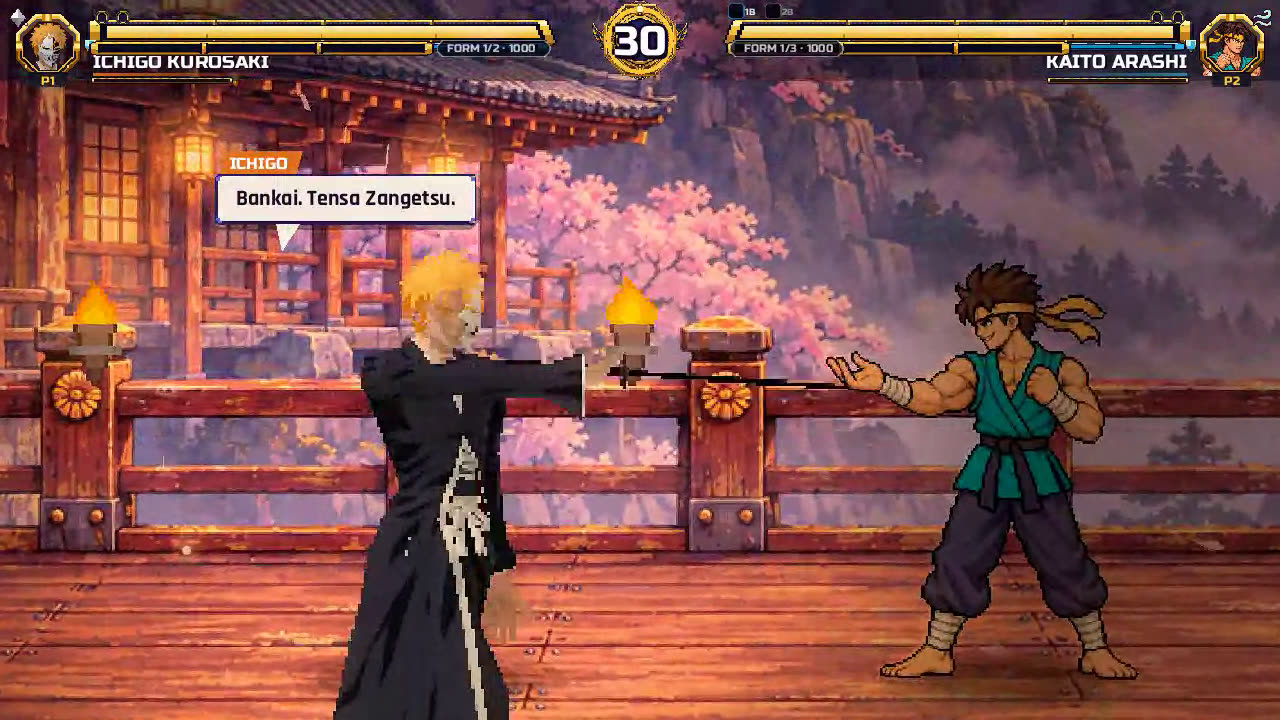
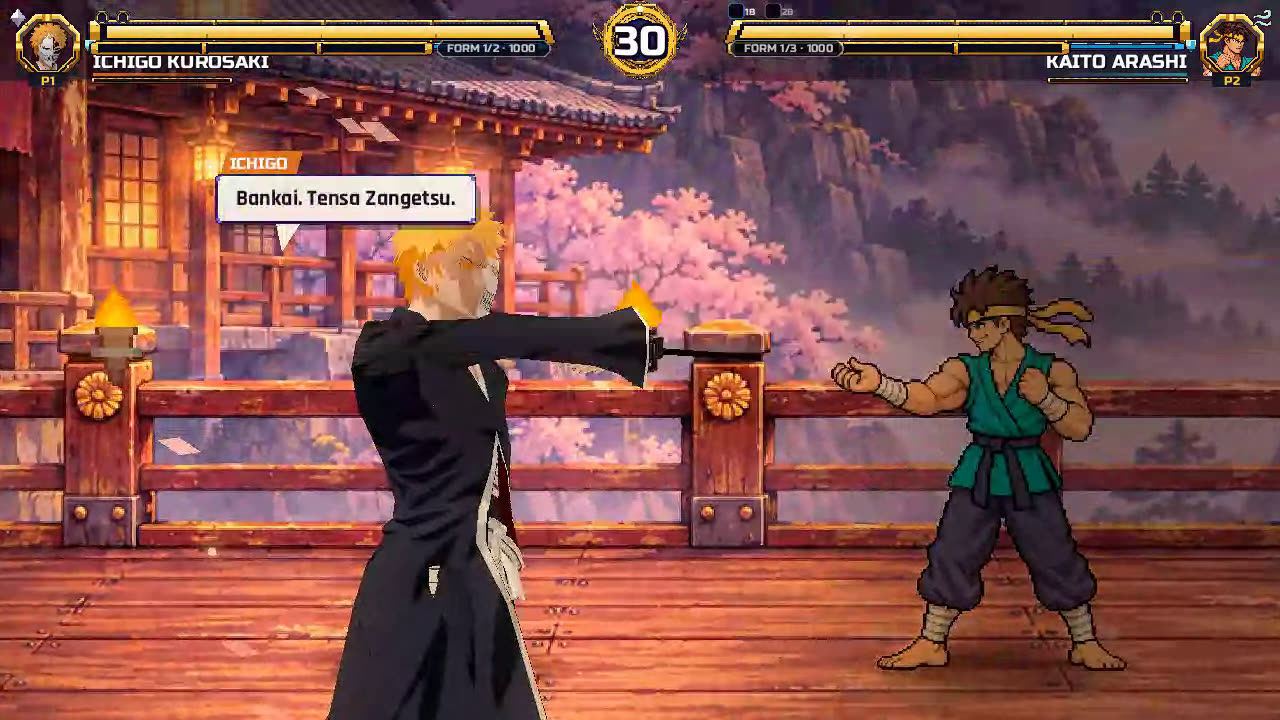
feat: up to 3x close-ups on 3D fighters with a sharp 1:1 window
Claude-Session: https://claude.ai/code/session_01Cn6JQLMANsaH27kiMiEnYX

diff --git a/src/model3d/canvas.rs b/src/model3d/canvas.rs
@@ -5,10 +5,13 @@ use std::collections::HashMap;
 use ume_model3d::{Facing, Raster};
 
 const EDGE: usize = 448;
+const CLOSE_EDGE: usize = 640;
+const CLOSE_SLOT: usize = 1000;
 const FEET: f32 = 0.84;
 const FILL: f32 = 0.5;
 
 struct Canvas {
+    edge: usize,
     raster: Raster,
     samples: usize,
     pixels: Vec<u8>,
@@ -23,6 +26,7 @@ pub(super) struct Placement {
     pub yaw: f32,
     pub pitch: f32,
     pub lens: f32,
+    pub aim: f32,
 }
 
 thread_local! {
@@ -51,16 +55,27 @@ impl Drawn {
 }
 
 pub(super) fn present(b: &mut Binding, key: (&str, bool, usize), at: Placement) -> Drawn {
-    let render_scale = at.screen_scale.min(EDGE as f32 * FILL / b.height);
+    let close = at.aim > 0.0;
+    let edge = if close { CLOSE_EDGE } else { EDGE };
+    let render_scale = if close {
+        at.screen_scale
+    } else {
+        at.screen_scale.min(EDGE as f32 * FILL / b.height)
+    };
     let mut camera = b.camera;
     camera.pixels_per_unit *= render_scale;
     camera.yaw_offset += at.yaw;
     camera.pitch = at.pitch;
     camera.lens = at.lens;
-    let origin = [EDGE as f32 / 2.0, EDGE as f32 * FEET];
+    let origin = if close {
+        [edge as f32 / 2.0, edge as f32 / 2.0 + at.aim * b.height * render_scale]
+    } else {
+        [edge as f32 / 2.0, edge as f32 * FEET]
+    };
     b.model
         .project(&b.posed, &camera, at.facing, origin, &mut b.triangles);
-    let drawn = CANVASES.with(|cache| {
+    let slot = key.2 + if close { CLOSE_SLOT } else { 0 };
+    CANVASES.with(|cache| {
         let mut cache = cache.borrow_mut();
         let samples = if crate::lite::scale() < 1.0 {
             1
@@ -68,15 +83,16 @@ pub(super) fn present(b: &mut Binding, key: (&str, bool, usize), at: Placement) 
             at.samples
         };
         let canvas = cache
-            .entry((key.0.to_string(), key.1, key.2))
+            .entry((key.0.to_string(), key.1, slot))
             .or_insert_with(|| Canvas {
-                raster: Raster::new(EDGE, EDGE, samples),
+                edge,
+                raster: Raster::new(edge, edge, samples),
                 samples,
-                pixels: vec![0; EDGE * EDGE * 4],
+                pixels: vec![0; edge * edge * 4],
                 texture: None,
             });
         if canvas.samples != samples {
-            canvas.raster = Raster::new(EDGE, EDGE, samples);
+            canvas.raster = Raster::new(edge, edge, samples);
             canvas.samples = samples;
         }
         canvas.raster.draw(&b.triangles, &b.model.images);
@@ -87,17 +103,17 @@ pub(super) fn present(b: &mut Binding, key: (&str, bool, usize), at: Placement) 
                 texture.clone()
             }
             None => {
-                let texture = Texture2D::from_rgba8(EDGE as u16, EDGE as u16, &canvas.pixels);
+                let texture = Texture2D::from_rgba8(edge as u16, edge as u16, &canvas.pixels);
                 canvas.texture = Some(texture.clone());
                 texture
             }
         };
-        let dest = EDGE as f32 * at.screen_scale / render_scale;
+        let dest = canvas.edge as f32 * at.screen_scale / render_scale;
+        let ratio = dest / canvas.edge as f32;
         Drawn {
             texture,
-            corner: [at.feet[0] - dest / 2.0, at.feet[1] - dest * FEET],
+            corner: [at.feet[0] - origin[0] * ratio, at.feet[1] - origin[1] * ratio],
             size: dest,
         }
-    });
-    drawn
+    })
 }

diff --git a/src/cinematic/tests.rs b/src/cinematic/tests.rs
@@ -90,9 +90,9 @@ fn the_disabled_flag_and_user_overrides_are_honoured() {
     let custom = "[[victory]]\nsubject = \"both\"\nduration = 2.0\nzoom = [0.0, 0.3]\n";
     let cfg = Config::parse(include_str!("../../assets/cinematic.toml"), Some(custom));
     assert_eq!(cfg.victory.len(), 1);
-    assert_eq!(cfg.intro.len(), 3, "untouched sections keep the defaults");
+    assert_eq!(cfg.intro.len(), defaults().intro.len(), "untouched sections keep the defaults");
     let broken = Config::parse(include_str!("../../assets/cinematic.toml"), Some("[[intro"));
-    assert_eq!(broken.intro.len(), 3, "invalid user file falls back to the defaults");
+    assert_eq!(broken.intro.len(), defaults().intro.len(), "invalid user file falls back to the defaults");
 }
 
 #[test]
@@ -140,11 +140,12 @@ fn a_face_close_up_lands_the_aim_point_on_the_chest_line() {
     let (mut scale, mut feet) = (2.0, 500.0);
     let height = 100.0;
     let chest_line = feet - 0.55 * height * scale;
-    close_up(&mut scale, &mut feet, height, &view);
+    let aim = close_up(&mut scale, &mut feet, height, &view);
+    assert_eq!(aim, 0.88);
     assert_eq!(scale, 4.0);
     let aim_y = feet - 0.88 * height * scale;
     assert!((aim_y - chest_line).abs() < 1e-3, "{aim_y} vs {chest_line}");
     let (mut s2, mut f2) = (2.0, 500.0);
-    close_up(&mut s2, &mut f2, height, &Sample::default());
+    assert_eq!(close_up(&mut s2, &mut f2, height, &Sample::default()), 0.0);
     assert_eq!((s2, f2), (2.0, 500.0), "no detail leaves the placement untouched");
 }

diff --git a/src/cinematic.rs b/src/cinematic.rs
@@ -60,9 +60,9 @@ pub fn view_for(m: &Match, side: usize) -> Sample {
 
 const CHEST: f32 = 0.55;
 
-pub fn close_up(scale: &mut f32, feet_y: &mut f32, height: f32, view: &Sample) {
+pub fn close_up(scale: &mut f32, feet_y: &mut f32, height: f32, view: &Sample) -> f32 {
     if view.detail <= 0.0 {
-        return;
+        return 0.0;
     }
     let zoom = 1.0 + view.detail;
     let full = height * *scale;
@@ -70,4 +70,5 @@ pub fn close_up(scale: &mut f32, feet_y: &mut f32, height: f32, view: &Sample) {
     let hold = view.aim * (1.0 - lean) + CHEST * lean;
     *feet_y += (view.aim * zoom - hold) * full;
     *scale *= zoom;
+    view.aim.max(f32::EPSILON)
 }

diff --git a/src/model3d/active.rs b/src/model3d/active.rs
@@ -32,10 +32,11 @@ pub(super) fn draw(g: &mut Gfx, m: &Match, f: &Fighter, shx: f32, shy: f32) -> b
         yaw: view.yaw,
         pitch: view.pitch,
         lens: view.lens,
+        aim: 0.0,
     };
     let feet_px = at.feet;
     bindings::with(id, awakened, |b| {
-        crate::cinematic::close_up(&mut at.screen_scale, &mut at.feet[1], b.height, &view);
+        at.aim = crate::cinematic::close_up(&mut at.screen_scale, &mut at.feet[1], b.height, &view);
         pose_pick::pose(b, f.anim_no, f.anim_elapsed, f.state_no, f.state_time);
         let height = b.height * at.screen_scale;
         let drawn = canvas::present(b, (id, awakened, slot), at);

diff --git a/src/cinematic/beat.rs b/src/cinematic/beat.rs
@@ -88,7 +88,7 @@ impl Beat {
         self.shake = clamp_pair(self.shake, 0.0, 1.0);
         self.pitch = clamp_pair(self.pitch, -MAX_PITCH, MAX_PITCH);
         self.lens = clamp_pair(self.lens, 0.0, 0.6);
-        self.detail = clamp_pair(self.detail, 0.0, 1.0);
+        self.detail = clamp_pair(self.detail, 0.0, 2.0);
         self.aim = clamp_pair(self.aim, 0.0, 1.0);
         self.sweep = clamp_pair(self.sweep, -MAX_SWEEP, MAX_SWEEP);
         self

diff --git a/src/model3d/fit.rs b/src/model3d/fit.rs
@@ -26,6 +26,7 @@ pub(super) fn draw(
             yaw: 0.0,
             pitch: 0.0,
             lens: 0.0,
+            aim: 0.0,
         };
         canvas::present(b, (id, false, FIT_SLOT + mirror as usize), at).draw([0.0, 0.0], crate::gfx::WHITE);
     })

diff --git a/docs/wiki/Cinematic-Cameras.md b/docs/wiki/Cinematic-Cameras.md
@@ -3,7 +3,7 @@
 The first-round intro and every round-win pose run a short camera shot made of beats. The shot is a pure function of the match clock, so replays and rollback stay deterministic.
 
 - Beats live in `assets/cinematic.toml`. A copy named `cinematic.toml` next to the settings file replaces the `[[intro]]` and `[[victory]]` sections it defines; an invalid file is ignored.
-- Each beat: `subject` (`p1`, `p2`, `both`, `winner`), `duration` seconds, `ease` (`linear`, `in`, `out`, `in_out`, `back`), and `[from, to]` pairs for `zoom` (added to the stage zoom), `focus` (0 wide to 1 on the subject), `shake` (trauma), `sweep` (world px camera truck, gives background parallax) and, for 3D fighters only, `yaw` (orbit, radians), `pitch` (negative = low angle, positive = crane from above, radians), `lens` (0 to 0.6 perspective emphasis, nearer parts grow) and `detail` + `aim` (extra model zoom centred on a body height: 0 feet, 0.85 face, 0.6 sword arm).
+- Each beat: `subject` (`p1`, `p2`, `both`, `winner`), `duration` seconds, `ease` (`linear`, `in`, `out`, `in_out`, `back`), and `[from, to]` pairs for `zoom` (added to the stage zoom), `focus` (0 wide to 1 on the subject), `shake` (trauma), `sweep` (world px camera truck, gives background parallax) and, for 3D fighters only, `yaw` (orbit, radians), `pitch` (negative = low angle, positive = crane from above, radians), `lens` (0 to 0.6 perspective emphasis, nearer parts grow) and `detail` + `aim` (extra model zoom, 0 to 2 = up to 3x, rendered 1:1 in a sharper 640px window centred on a body height: 0 feet, 0.85 face, 0.6 sword arm).
 - Values are clamped, so a bad file cannot break the view. `enabled = false` turns every shot off.
 - Fighters without a 3D model get the same zoom and pan on their sprites; 3D fighters also orbit.
 - The intro shot ends when the existing intro skip fires; Reduce motion disables zoom, pan, shake and orbit.
